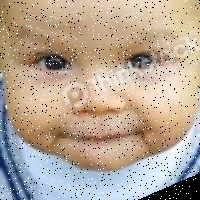
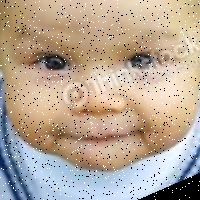
strengthened noises

diff --git a/dataset/noise/UniformNoise.py b/dataset/noise/UniformNoise.py
@@ -1,7 +1,7 @@
 import cv2
 import numpy as np
 
-def uniform_noise(path, output_path, low=0, high=50):
+def uniform_noise(path, output_path, low=0, high=100):
     img = cv2.imread(path)
     if img is None:
         print(f"Error: Unable to load the image at {path}")
@@ -9,5 +9,3 @@ def uniform_noise(path, output_path, low=0, high=50):
     noise = np.random.uniform(low, high, img.shape).astype(np.uint8)
     noisy_img = cv2.add(img, noise)
     cv2.imwrite(output_path, noisy_img)
-    print(f"Noisy image saved at: {output_path}")
-

diff --git a/dataset/noise/QuantizationNoise.py b/dataset/noise/QuantizationNoise.py
@@ -1,7 +1,7 @@
 import cv2
 import numpy as np
 
-def quantization_noise(path, output_path, levels=64):
+def quantization_noise(path, output_path, levels=16):
     img = cv2.imread(path)
     if img is None:
         print(f"Error: Unable to load the image at {path}")

diff --git a/dataset/noise/SpeckleNoise.py b/dataset/noise/SpeckleNoise.py
@@ -1,7 +1,7 @@
 import cv2
 import numpy as np
 
-def speckle_noise(path,output_path, variance=0.02):
+def speckle_noise(path,output_path, variance=0.2):
     img = cv2.imread(path)
     if img is None:
         print(f"Error: Unable to load the image at {path}")
